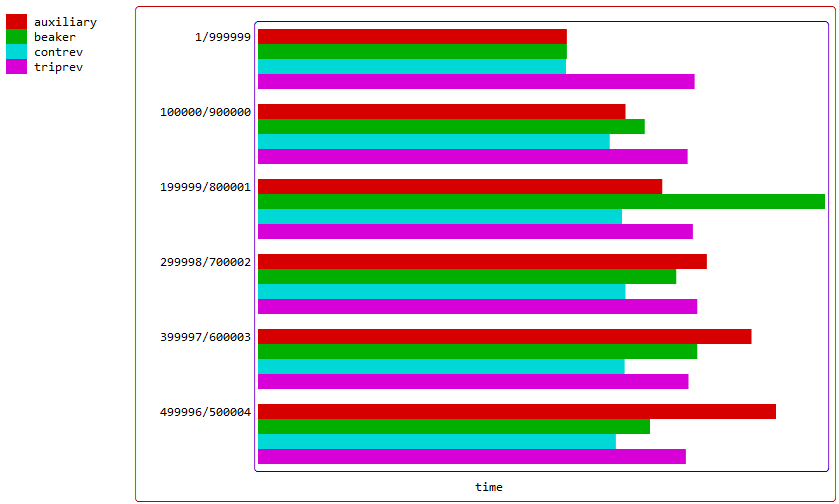
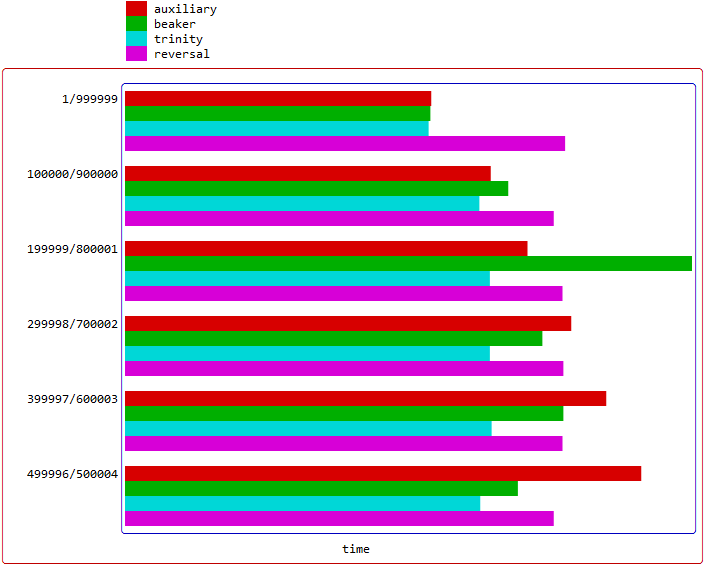
rotate 1.1

diff --git a/src/bench.c b/src/bench.c
@@ -43,8 +43,6 @@
 
 #include "rotate.h"
 
-typedef void SRTFUNC(void *array, size_t left, size_t right);
-
 long long utime()
 {
 	struct timeval now_time;
@@ -94,12 +92,9 @@ void test_sort(void *array, void *unsorted, void *valid, int max, int samples, i
 				case 'a':
 					auxiliary_rotation(array, left, right);
 					break;
+
 				case 'b':
 					beaker_rotation(array, left, right);
-					break;
-
-				case 'c':
-					contrev_rotation(array, left, right);
 					break;
 
 				case 'g':
@@ -110,9 +105,15 @@ void test_sort(void *array, void *unsorted, void *valid, int max, int samples, i
 					juggling_rotation(array, left, right);
 					break;
 
-				case 't':
-					triprev_rotation(array, left, right);
+				case 'r':
+					reversal_rotation(array, left, right);
 					break;
+
+				case 't':
+					trinity_rotation(array, left, right);
+					break;
+
+
 			}
 		}
 		end = utime();
@@ -130,7 +131,7 @@ void test_sort(void *array, void *unsorted, void *valid, int max, int samples, i
 
 	printf("|%10s | %8d | %4d | %f | %f | %9d | %7d | %16s |\n", name, max, (int) size * 8, best / 1000000.0, average / 1000000.0, repetitions, samples, desc);
 
-	for (cnt = 1 ; cnt < max ; cnt++)
+	for (cnt = 0 ; cnt < max ; cnt++)
 	{
 		if (pta[cnt] != ptv[cnt])
 		{
@@ -142,13 +143,13 @@ void test_sort(void *array, void *unsorted, void *valid, int max, int samples, i
 
 int main(int argc, char **argv)
 {
-	int max = 100000;
+	int max = 1000000;
 	int samples = 1000;
-	int repetitions = 10;
+	int repetitions = 1;
 	int seed = 0;
 	int cnt, left, right;
 	int *a_array, *r_array, *v_array;
-	char dist[40], *sorts[] = { "*", "auxiliary", "beaker", "contrev", "grail", "juggling", "triprev" };
+	char dist[40], *sorts[] = { "*", "auxiliary", "beaker", "grail", "juggling", "trinity", "reversal" };
 
 	if (argc >= 1 && argv[1] && *argv[1])
 	{
@@ -183,7 +184,7 @@ int main(int argc, char **argv)
 		r_array[cnt] = cnt;
 	}
 
-	for (left = 1 ; left < max / 2 ; left +=  max * 10 / 100 - 1)
+	for (left = 1 ; left < max ; left +=  max * 10 / 100 - 1)
 	{
 		right = max - left;
 

diff --git a/src/rotate.h b/src/rotate.h
@@ -24,7 +24,7 @@
 */
 
 /*
-	rotate 1.0
+	rotate 1.1
 */
 
 #ifndef ROTATE_H
@@ -145,22 +145,22 @@ void beaker_rotation(int *array, size_t left, size_t right)
 	{
 		if (left <= right)
 		{
-			int swap = array[start];
+			swap = array[start];
 			memmove(&array[start], &array[start + 1], (right) * sizeof(int));
 			array[start + right] = swap;
 		}
 		else
 		{
-			int swap = array[start + left];
+			swap = array[start + left];
 			memmove(&array[start + 1], &array[start], (left) * sizeof(int));
 			array[start] = swap;
 		}
 	}
 }
 
-// conjoined triple reversal rotation
+// conjoined triple reversal aka trinity rotation
 
-void contrev_rotation(int *array, size_t left, size_t right)
+void trinity_rotation(int *array, size_t left, size_t right)
 {
 	if (left < 8 || right < 8)
 	{
@@ -186,19 +186,18 @@ void contrev_rotation(int *array, size_t left, size_t right)
 
 		pta = array;
 		ptb = pta + left;
-
 		ptc = ptb;
 		ptd = ptc + right;
 
-		loop = left < right ? left / 2 : right / 2;
-
-		while (loop--)
-		{
-			swap = *--ptb; *ptb = *pta; *pta++ = *ptc; *ptc++ = *--ptd; *ptd = swap;
-		}
-
 		if (left >= right)
 		{
+			loop = right / 2;
+
+			while (loop--)
+			{
+				swap = *--ptb; *ptb = *pta; *pta++ = *ptc; *ptc++ = *--ptd; *ptd = swap;
+			}
+
 			loop = (ptb - pta) / 2;
 
 			while (loop--)
@@ -208,6 +207,13 @@ void contrev_rotation(int *array, size_t left, size_t right)
 		}
 		else
 		{
+			loop = left / 2;
+
+			while (loop--)
+			{
+				swap = *--ptb; *ptb = *pta; *pta++ = *ptc; *ptc++ = *--ptd; *ptd = swap;
+			}
+
 			loop = (ptd - ptc) / 2;
 
 			while (loop--)
@@ -327,7 +333,7 @@ void juggling_rotation(int *array, size_t left, size_t right)
 
 // Classic 3 reversal
 
-void triprev_rotation(int *array, size_t left, size_t right)
+void reversal_rotation(int *array, size_t left, size_t right)
 {
 	block_reversal(array, left);
 	block_reversal(array + left, right);
